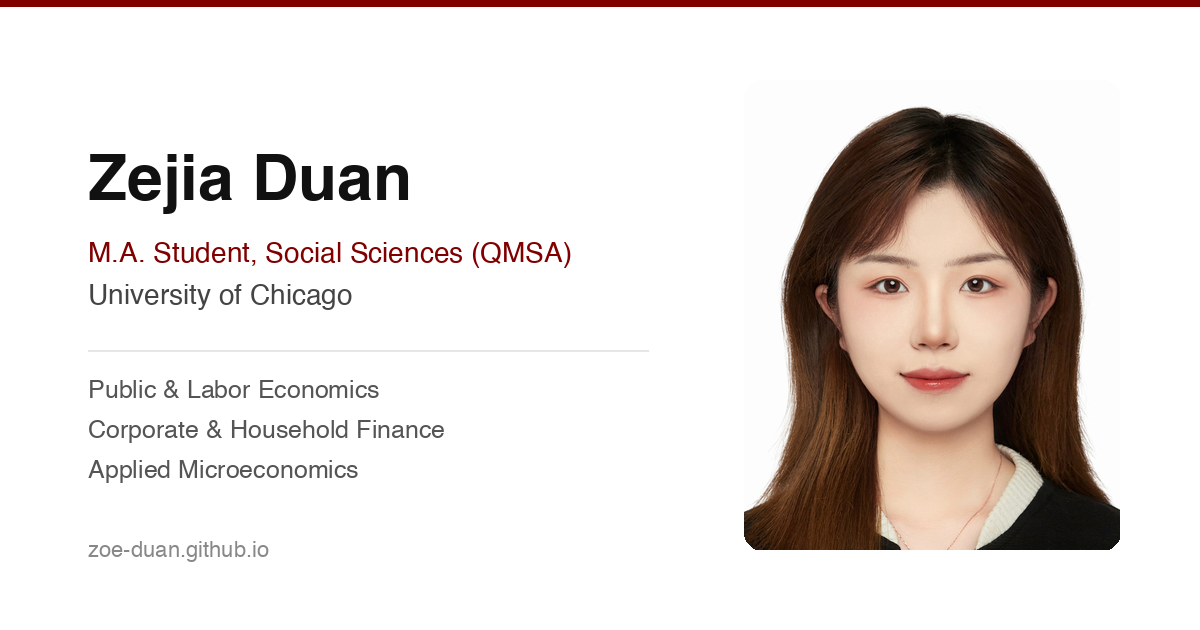
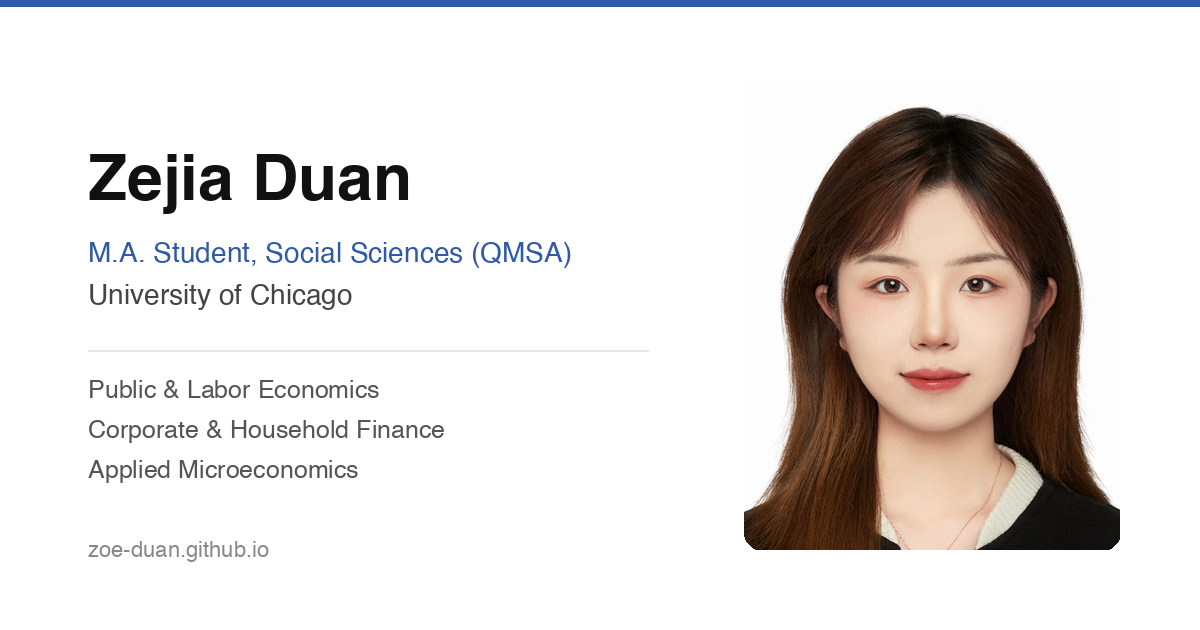
Use the template blue as a hover-only accent.
Interest chips, project pills and tags are neutral at rest and turn blue on
hover, matching the GaAs9000 link pills; share card recoloured to match.

Changed region(s): [[0.0, 0.0, 1.0, 0.0302], [0.0617, 0.3619, 0.4933, 0.4222]]

diff --git a/assets/css/home.css b/assets/css/home.css
@@ -17,8 +17,8 @@
   --line: #ececec;
   --underline: #cfcfcf;
   --hover: #f6f6f6;
-  --accent: #800000;
-  --accent-soft: #f8eeee;
+  --accent: #2f5aa8;
+  --accent-soft: #eef3fb;
   --thumb-bg: #ffffff;
   --font: "Inter", -apple-system, BlinkMacSystemFont, "Segoe UI", "Helvetica Neue", Arial, sans-serif;
   --mono: ui-monospace, "SF Mono", SFMono-Regular, Menlo, Consolas, monospace;
@@ -33,8 +33,8 @@
     --line: #1f1f1f;
     --underline: #444444;
     --hover: #161616;
-    --accent: #e3a3a3;
-    --accent-soft: #2a1515;
+    --accent: #8db0ec;
+    --accent-soft: #131c2b;
     --thumb-bg: #f5f5f5;
   }
 }
@@ -339,10 +339,16 @@ p {
 
 .interests li {
   padding: 2px 10px;
+  border: 1px solid var(--line);
   border-radius: 999px;
+  color: var(--muted);
+  transition: border-color 0.15s ease, background-color 0.15s ease, color 0.15s ease;
+}
+
+.interests li:hover {
+  border-color: var(--accent);
   background: var(--accent-soft);
   color: var(--accent);
-  font-weight: 500;
 }
 
 /* Featured research projects */
@@ -370,6 +376,11 @@ p {
   line-height: 1.45;
   letter-spacing: -0.005em;
   text-wrap: balance;
+  transition: color 0.15s ease;
+}
+
+.project:hover .project__title {
+  color: var(--accent);
 }
 
 .project__date {
@@ -391,12 +402,18 @@ p {
 
 .pill {
   padding: 0 8px;
-  border: 1px solid color-mix(in srgb, var(--accent) 30%, transparent);
+  border: 1px solid var(--line);
   border-radius: 999px;
-  background: var(--accent-soft);
   font-size: 12px;
   font-weight: 500;
   line-height: 20px;
+  color: var(--muted);
+  transition: border-color 0.15s ease, background-color 0.15s ease, color 0.15s ease;
+}
+
+.project:hover .pill {
+  border-color: color-mix(in srgb, var(--accent) 35%, transparent);
+  background: var(--accent-soft);
   color: var(--accent);
 }
 
@@ -421,7 +438,12 @@ p {
 .tags li::before {
   content: "#";
   margin-right: 2px;
-  color: color-mix(in srgb, var(--accent) 55%, var(--bg));
+  color: var(--underline);
+  transition: color 0.15s ease;
+}
+
+.project:hover .tags li::before {
+  color: var(--accent);
 }
 
 .subhead {
